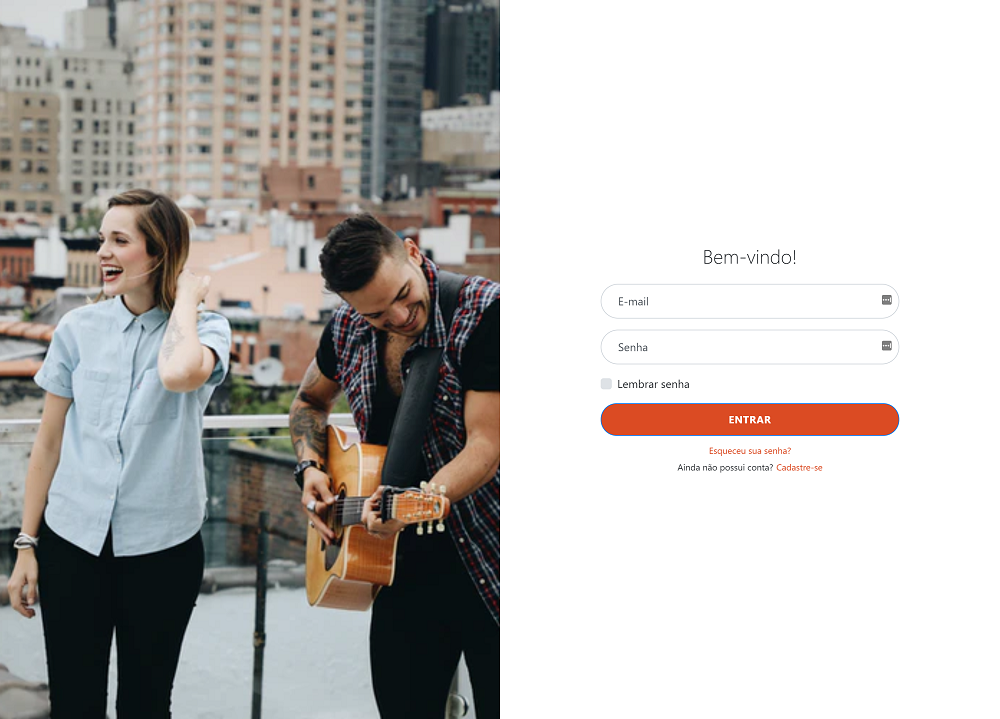
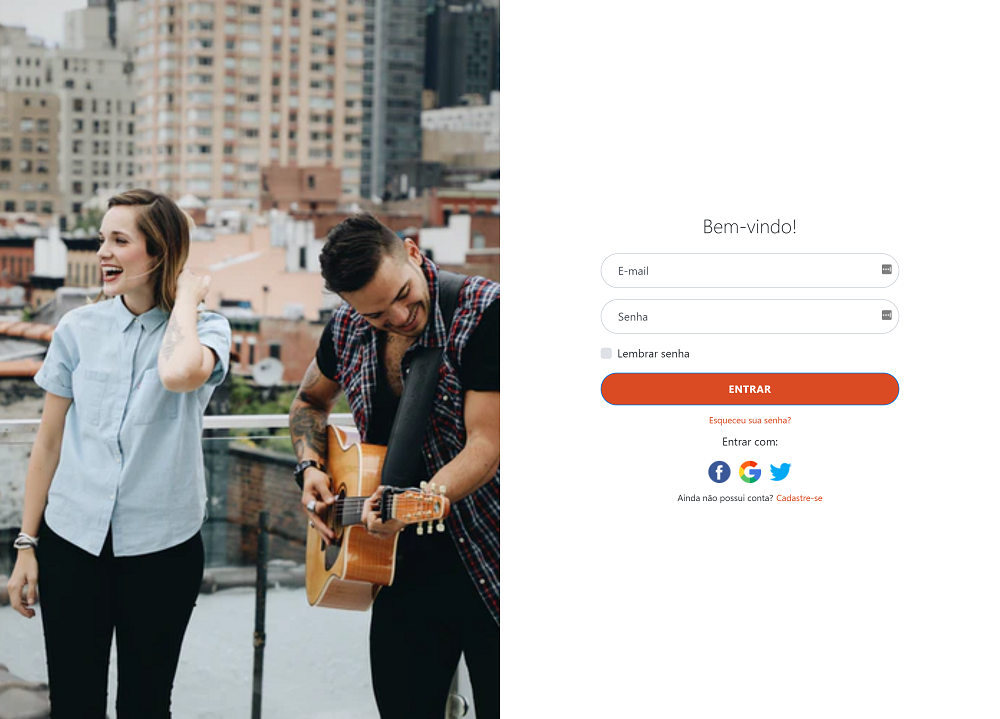
Changes to the login screen

Changed region(s): [[0.589, 0.3672, 0.899, 0.7038], [0.682, 0.306, 0.806, 0.3672], [0.868, 0.3672, 0.899, 0.4896]]

diff --git a/register.html b/register.html
@@ -24,12 +24,12 @@
                                     <h3 class="login-heading mb-4 text-center">Cadastro</h3>
                                     <form>
                                         <div class="form-label-group">
-                                            <input type="text" id="inputName" class="form-control" placeholder="Nome Completo" required>
+                                            <input type="text" id="inputName" class="form-control" placeholder="Nome Completo" required autofocus>
                                             <label for="inputName">Nome Completo</label>
                                         </div>
 
                                         <div class="form-label-group">
-                                            <input type="email" id="inputEmail" class="form-control" placeholder="Email" required autofocus>
+                                            <input type="email" id="inputEmail" class="form-control" placeholder="Email" required>
                                             <label for="inputEmail">E-mail</label>
                                         </div>
                         

diff --git a/login.html b/login.html
@@ -43,6 +43,14 @@
                                             <a class="small" href="recoverPassword.html">Esqueceu sua senha?</a>
                                         </div>
                                     </form>
+                                    <div class="text-center my-2">
+                                        <a>Entrar com:</a>
+                                    </div>
+                                    <div class="text-center">
+                                        <a href="#" ><img class="mx-1 my-2" src="./assets/img/facebook.png"></a>
+                                        <a href="#"><img class="mx-1 my-2" src="./assets/img/google.png"></a>
+                                        <a href="#"><img class="mx-1 my-2" src="./assets/img/twitter.png"></a>
+                                    </div>
                                     <div class="text-center">
                                         <a class="small">Ainda não possui conta?</a>
                                         <a class="small" href="register.html">Cadastre-se</a>
